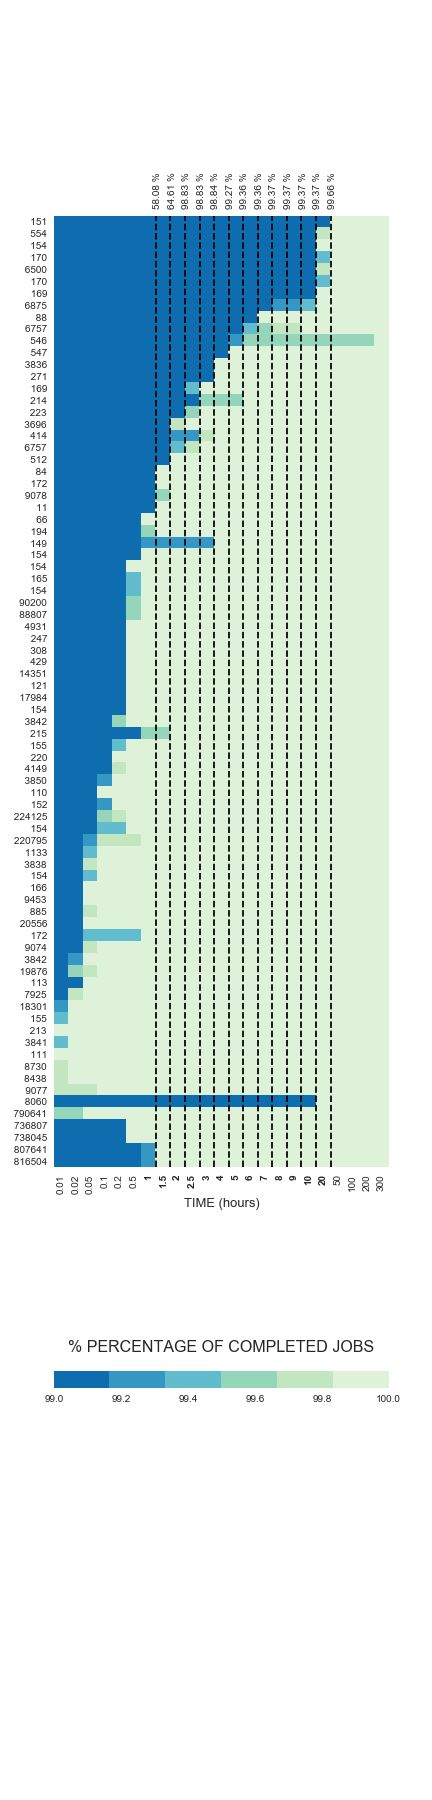
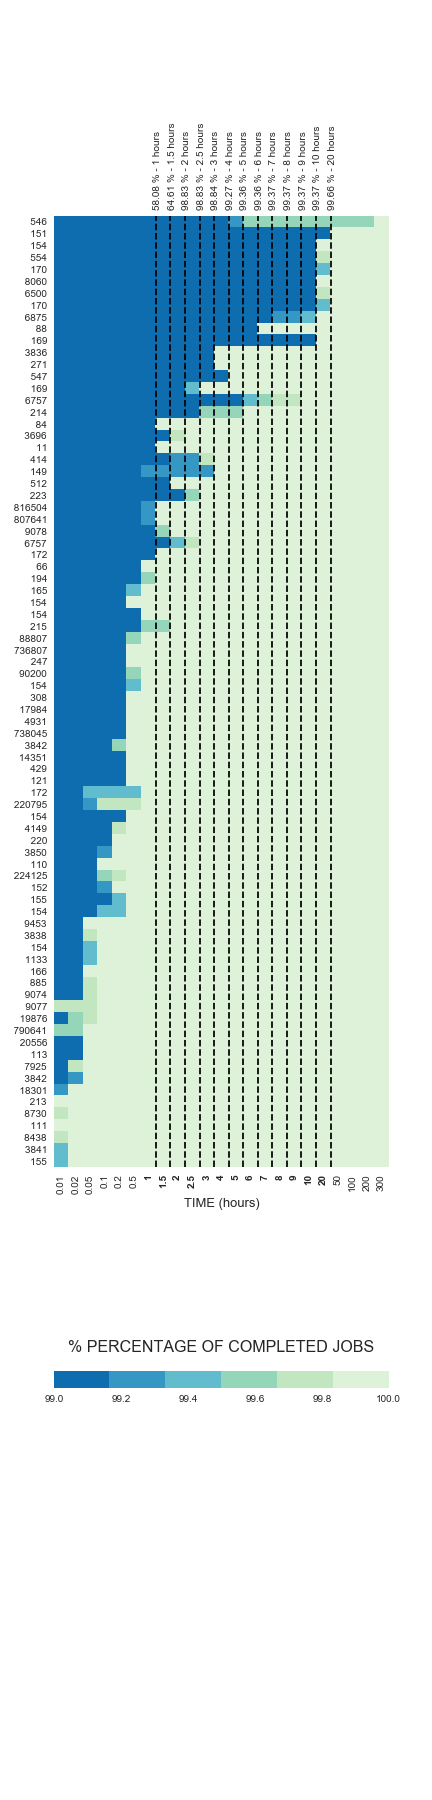
new plot

Changed region(s): [[0.0301, 0.0622, 0.8727, 0.6533]]

diff --git a/data_graphs.py b/data_graphs.py
@@ -128,9 +128,9 @@ def get_job_completeness(data, filters, thresholds):
         ],
     }).to_dict()['Run Time']
 
-    distribution = data.groupby("Step Name").agg({
-        "Run Time": lambda x: np.percentile(x, 99)
-    }).to_dict()['Run Time'][filters["Step Name"]]
+    # distribution = data.groupby("Step Name").agg({
+    #     "Run Time": lambda x: np.percentile(x, 99)
+    # }).to_dict()['Run Time'][filters["Step Name"]]
 
     return completeness, distribution, len(data)
 
@@ -172,9 +172,9 @@ def plot_pipelines(data, thresholds):
                 )
                 step_stats = {**step_stats, **completeness}
                 step_stats["Count"] = count
-                # step_stats["2-std"] = distribution['mean'] + \
-                #     2 * distribution['std']
-                step_stats["2-std"] = distribution
+                step_stats["2-std"] = distribution['mean'] + \
+                    2 * distribution['std']
+                # step_stats["2-std"] = distribution
 
                 print(f'Done {technique}-{pipeline}-{step}')
 
@@ -220,7 +220,7 @@ def complete_jobs(data, threshold):
     total = data['Count'].sum()
     percentage = abs(100 * above_th / total)
     # print(f'{threshold} -> {above_th} / {total} ')
-    return f'{round(percentage, 2)} %'
+    return f'{round(percentage, 2)} % - {threshold} hours'
 
 
 def plot_heatmap(data):
@@ -277,7 +277,8 @@ def plot_heatmap(data):
         percentage = complete_jobs(stats_sorted, threshold)
 
         plt.axvline(index, color="black", linestyle='dashed')
-        plt.text(index - 0.2, -3.1, percentage, rotation=90)
+        plt.text(index - 0.2, -0.5, percentage,
+                 rotation=90, verticalalignment='bottom')
 
     # plt.subplots_adjust(left=3)
     plt.savefig(join(OUTPUT, 'heatmap.png'))
